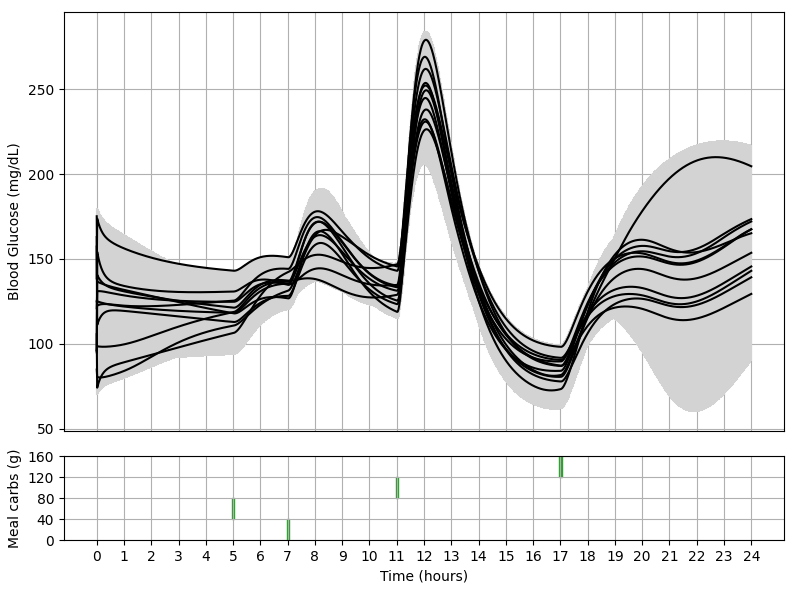
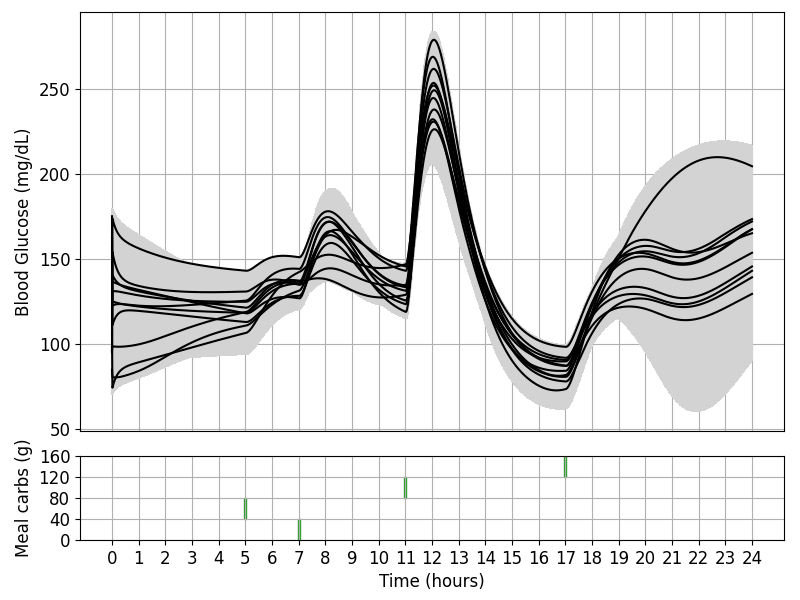
update trace figures

diff --git a/pump/verification.py b/pump/verification.py
@@ -486,8 +486,9 @@ def plot_result_paper(result: Tuple[SimulationScenario, AnalysisTree, List[bool]
         ax_main.plot(x, y, color='black')
 
     ax_main.grid()
-    ax_main.set_ylabel('Blood Glucose (mg/dL)')
+    ax_main.set_ylabel('Blood Glucose (mg/dL)', fontsize=12)
     ax_main.tick_params(axis='x', which='both', bottom=False, top=False, labelbottom=False)
+    ax_main.tick_params(axis='both', which='major', labelsize=12)
 
     # --- Meals plot (vertical strips for carb ranges) ---
     meal_times = [m.time for m in scenario.get_meals()]
@@ -502,12 +503,13 @@ def plot_result_paper(result: Tuple[SimulationScenario, AnalysisTree, List[bool]
     ax_meals.set_yticks([0, 40, 80, 120, 160])
     ax_meals.set_ylim(0, 160)
     ax_meals.grid(axis='both')
-    ax_meals.set_ylabel("Meal carbs (g)")
+    ax_meals.set_ylabel("Meal carbs (g)", fontsize=12)
     ax_meals.set_xticks(np.arange(0, 24 * 60 + 1, 60))
-    ax_meals.set_xticklabels([str(i) for i in range(25)])
-    ax_meals.set_xlabel('Time (hours)')
-    
-    fig.subplots_adjust(left=0.08, right=0.98, top=0.98, bottom=0.1, hspace=0.02)
+    ax_meals.set_xticklabels([str(i) for i in range(25)], fontsize=12)
+    ax_meals.set_xlabel('Time (hours)', fontsize=12)
+    ax_meals.tick_params(axis='both', which='major', labelsize=12)
+
+    fig.subplots_adjust(left=0.1, right=0.98, top=0.98, bottom=0.1, hspace=0.02)
     plt.margins(x=0, y=0)
 
     return fig, (ax_main, ax_meals)

diff --git a/pump/analysis.py b/pump/analysis.py
@@ -405,11 +405,11 @@ if __name__ == '__main__':
     # results = lambda: load_results_gen('/mnt/shared/gpfs/home/ndate2/InsulinPump/results/verification')
     # data0 = table_analysis_data(results, 0)
     # data4 = table_analysis_data(results, 4)
-    with open('data0.pkl', 'rb') as f:
-        data0 = pickle.load(f)
-    with open('data4.pkl', 'rb') as f:
-        data4 = pickle.load(f)
-    multiple_table_analysis([data0, data4], raw=False)
+    # with open('data0.pkl', 'rb') as f:
+    #     data0 = pickle.load(f)
+    # with open('data4.pkl', 'rb') as f:
+    #     data4 = pickle.load(f)
+    # multiple_table_analysis([data0, data4], raw=False)
 
 
     # multiple_table_analysis(results)
